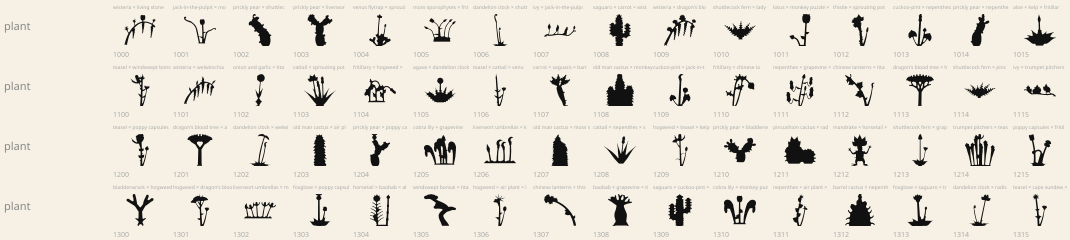
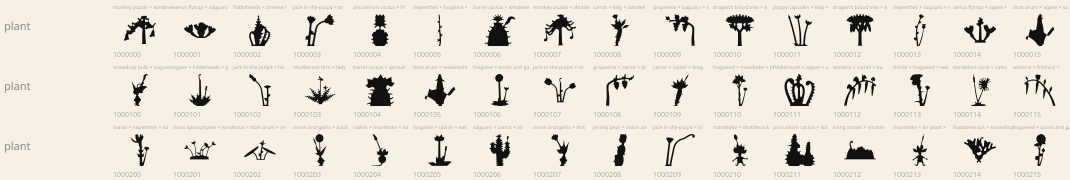
plant: chimera fix round (solid bases always grow borrowed units: cactus tips, hanging in canopies, scapes from bulbs/roots; fritillary one bell, solid wisteria racemes, stout teasel, radish sliver; barrel/dragon lent less)

diff --git a/src/gen/tags/plant.js b/src/gen/tags/plant.js
@@ -667,6 +667,43 @@ const MELD = {
 // forms with a clear top where a sibling's head may flower (cacti and succulents bloom on top)
 const TOPPED = new Set(['cactus', 'pear', 'lithops']);
 const FORMS = {};
+// Solid-bodied forms (cacti, trees, bulbs, roots...) cannot take a sibling's units into a stem
+// system, so they always grow at least one borrowed feature where it would grow: flowers or
+// capsules on cactus tops and arm tips, fruit/flowers/pitchers hanging in tree canopies, a
+// flowering scape (and leaves) from the crown of bulbs, roots, potatoes, seaweeds.
+function borrow(Cp, g, o, M) {
+  const rng = Cp.rng, K = Cp.ink, units = [M.crown, M.dorsal, M.tail].filter(Boolean);
+  const bloom = units.find(u => !leafy(u) && !NOSIDE.has(u.u)), lf = [M.dorsal, M.crown, M.tail].find(u => u && leafy(u) && BLADE.has(u.u)) ?? units.find(u => leafy(u) && u.u);
+  const head = M.head, topOwned = !!head && TOPPED.has(g.form); // the head itself goes on top via o.main
+  const fl = bloom ?? head ?? units.find(u => u.type);
+  if (!fl && !lf) return;
+  const put = (p, a, ext, spec) => drawUnit(Cp, p, a, fitTo(spec, ext), spec);
+  if (o.hang?.length) { // hanging from a canopy on short stalks
+    const spec = fl ?? lf, pool = rng.shuffle(o.hang.slice()), n = Math.min(pool.length, rng.int(2, 4));
+    for (const h of pool.slice(0, n)) {
+      const L = h.s * rng.range(0.9, 1.4), e = [h.p[0] + rng.range(-0.3, 0.3), h.p[1] + L];
+      thin(K, [h.p, e], 0.55); put(e, DOWN + rng.range(-0.25, 0.25), clamp(h.s * 3, 8, 12), spec);
+    }
+    return;
+  }
+  if (o.tips) { // cacti, prickly pear: on top of the main column / barrel and on arm or pad tips
+    const tips = o.tips.slice();
+    if (!topOwned) tips.push({ p: o.head.p, a: UP, s: (o.r ?? 5) * 1.4, top: true });
+    const pool = rng.shuffle(tips.filter(t => t.top)).concat(rng.shuffle(tips.filter(t => !t.top)));
+    const n = Math.min(pool.length, topOwned ? rng.int(1, 3) : rng.int(1, 2) + (pool.length > 2 ? 1 : 0));
+    for (const t of pool.slice(0, Math.max(n, 1))) { // on a short visible stalk, so the unit reads apart from the body
+      const spec = fl ?? lf, ext = clamp(t.s * 2.4, 7, t.top ? 12 : 10), a = t.a + rng.range(-0.2, 0.2), e = polar(t.p, a, ext * rng.range(0.3, 0.45));
+      thin(K, [polar(t.p, a, -1), e], 0.8); put(e, a, ext, spec);
+    }
+    return;
+  }
+  if (TOPPED.has(g.form) && head) return; // living stones: the head blooms from the cleft
+  // a flowering scape from the crown, with a pair of borrowed leaves if there are any
+  const top = o.head.p, sd = rng.sign(), h = clamp((o.r ?? 5) * rng.range(3.6, 4.6) * (g.form === 'taproot' || g.form === 'mandrake' ? 1.3 : 1), 16, 28);
+  const st = { h, w: 0.9, w1: 0.65, arc: sd * rng.range(0, 0.25), head: fl ?? null, hs: fl ? fitTo(fl, clamp(h * 0.45, 8, 12)) : 0 };
+  if (lf) st.leaves = { n: 2, pair: !fl, t0: 0.15, t1: 0.35, ang: 0.85, s: fitTo(lf, clamp(h * 0.45, 6, 10)), k1: 0.85, spec: lf };
+  drawStem(Cp, polar(top, UP, -1), UP + sd * rng.range(0.1, 0.35), st);
+}
 const mute = o => { for (const k of Object.keys(o)) delete o[k]; o.type = 'none'; };
 chassis.plant = (C, g) => {
   const own = g._own, G = g._g;
@@ -679,7 +716,12 @@ chassis.plant = (C, g) => {
   const R0 = g.R ?? 6, dy = ownLimbs ? 0 : C.lift * R0 * 1.1 + R0 * 0.7;
   const K = new Pen(C.ink, dy), Cp = { ...C, ink: K, plantDraw: true, ownLimbs };
   const o = FORMS[g.form](Cp, g);
-  if (M?.head && !o.main && TOPPED.has(g.form)) o.main = { p: o.head.p, a: UP, s: fitTo(M.head, clamp((o.r ?? 5) * 1.7, 6, 13)), spec: M.head };
+  if (M && !MELD[g.form]) borrow(Cp, g, o, M);
+  if (M?.head && !o.main && TOPPED.has(g.form)) { // the borrowed head blooms on top, on a short stalk clear of the body
+    const ext = clamp((o.r ?? 5) * 1.9, 7, 13), e = polar(o.head.p, UP, ext * 0.35);
+    thin(K, [polar(o.head.p, UP, -1), e], 0.9);
+    o.main = { p: e, a: UP, s: fitTo(M.head, ext), spec: M.head };
+  }
   const sh = p => [p[0], p[1] - dy];
   const r = clamp(o.r, 3.5, 9), limbs = [];
   if (!ownLimbs) { // a root-ball to walk on
@@ -945,7 +987,7 @@ FORMS.taproot = (Cp, g) => {
   if (g.kind === 'radish') {
     const c = [0, -g.tailH - R * 0.9];
     K.poly(blobPts(c, R, R * 0.95, rng, 0.04, 2));
-    K.root(() => hairTube(K, floorPts(spline([[0, c[1] + R * 0.7], [sd * R * 0.3, -g.tailH * 0.4], [sd * R * 1.2, -0.3], [sd * R * 2.6, -0.4]], 6), -0.3), R * 0.16));
+    K.root(() => hairTube(K, floorPts(spline([[0, c[1] + R * 0.7], [sd * R * 0.3, -g.tailH * 0.4], [sd * R * 1.2, -0.3], [sd * R * 2.6, -0.4]], 6), R * 0.16 - 0.15), R * 0.16));
     path = spline([[0, c[1] + R], c, [0, c[1] - R]], 4); rad = () => R * 0.9;
   } else {
     const tip = [sd * R * 1.6, -0.6], crown = [-sd * R * 0.4 * g.lean, -H];
@@ -996,7 +1038,7 @@ function column(Cp, base, a0, h, R, o = {}) {
   return { pts, rad };
 }
 FORMS.cactus = (Cp, g) => {
-  const K = Cp.ink, rng = Cp.rng, R = g.R, spine = { gap: g.gap ?? 2.6, sl: g.sl ?? 1.6, k: g.k ?? 2 };
+  const K = Cp.ink, rng = Cp.rng, R = g.R, spine = { gap: g.gap ?? 2.6, sl: g.sl ?? 1.6, k: g.k ?? 2 }, tips = [], hang = [];
   let main, headP;
   if (g.kind === 'barrel') {
     const W = g.W, H = g.H, pts = [];
@@ -1005,12 +1047,14 @@ FORMS.cactus = (Cp, g) => {
     for (let i = 0; i <= 2 * g.ribs; i++) { const t = mix(0.04, 0.96, i / (2 * g.ribs)), a = PI + t * PI, q = [Math.cos(a) * W * 1.02, Math.sin(a) * H * 1.02]; if (q[1] > -1.5) continue; const na = Math.atan2(Math.sin(a) / H, Math.cos(a) / W); hairTube(K, arcPath(q, na + rng.range(-0.2, 0.2), g.sl * 1.2, rng.sign() * 1.2, 5, 2), hair * 1.3, hair * 0.85); }
     for (let i = 0; i < g.flowers; i++) { const f = g.flowers > 1 ? i / (g.flowers - 1) - 0.5 : 0; heads.plantBloom(Cp, usock([f * W * 0.75, -H * Math.sqrt(1 - (f * 1.5) ** 2) + 0.8], UP + f * 1.2, g.fs), { petals: 5, spread: 1.6, pl: 1.3, pw: 0.55, disc: 0.4, calyx: true }); }
     main = { pts: [[0, 0], [0, -H / 2], [0, -H]], rad: () => W * 0.7 }; headP = [0, -H];
+    for (const f of [-0.42, 0.42]) tips.push({ p: [f * W, -H * Math.sqrt(1 - f * f) + 0.5], a: UP + f * 1.6, s: W * 0.5 });
   } else if (g.kind === 'pincushion') {
     main = null;
     g.balls.forEach((b, i) => {
       const c = [b.x, -b.r * 0.95], pts = blobPts(c, b.r, b.r * b.tall, rng, 0.02, 4); K.poly(pts);
       for (let j = 0; j < 16; j++) { const t = j / 16 * TAU, q = [c[0] + Math.cos(t) * b.r * 0.97, c[1] + Math.sin(t) * b.r * b.tall * 0.97]; if (q[1] < -0.8) hairTube(K, [q, polar(q, t + rng.range(-0.2, 0.2), g.sl * 0.8)], hair * 1.05, hair * 0.8); }
       if (b.crown) for (let j = 0; j < b.crown; j++) { const t = -PI / 2 + (j / (b.crown - 1) - 0.5) * 1.9, q = [c[0] + Math.cos(t) * b.r * 0.82, c[1] + Math.sin(t) * b.r * b.tall * 0.82]; heads.plantBloom(Cp, usock(q, t, b.r * 0.32), { petals: 5, spread: 1.5, pl: 1.3, pw: 0.6, disc: 0.4 }); }
+      tips.push({ p: [c[0], c[1] - b.r * b.tall * 0.9], a: UP, s: b.r * 0.9 });
       if (i === 0) { main = { pts: spline([[c[0], 0], c, [c[0], c[1] - b.r]], 4), rad: () => b.r * 0.8 }; headP = [c[0], c[1] - b.r * b.tall]; }
     });
   } else { // columns
@@ -1023,24 +1067,27 @@ FORMS.cactus = (Cp, g) => {
         const q = pathAt(col.pts, arm.t), sd = arm.sd, rA = cd.R * arm.k, b = polar(q.p, q.ang + sd * PI / 2, cd.R * 0.5);
         const elbow = add(b, [sd * arm.out, -rA * 0.3]), apts = spline([b, add(b, [sd * arm.out * 0.55, rA * 0.1]), elbow, add(elbow, [sd * rA * 0.15, -arm.up * 0.5]), add(elbow, [sd * rA * 0.05, -arm.up])], 6), arad = P([[0, rA * 0.8], [0.3, rA], [1, rA * 0.85]]);
         K.poly(tube(apts, arad)); areoles(Cp, apts.slice(Math.floor(apts.length * 0.35)), arad, { ...spine, len: arm.up });
+        tips.push({ p: last(apts), a: UP, s: rA * 1.3 });
         if (arm.flower) heads.plantBloom(Cp, usock(last(apts), UP, rA * 0.55), { petals: 5, spread: 1.7, pl: 1.2, pw: 0.6, disc: 0.4, calyx: true });
       }
       if (cd.flowers) for (let j = 0; j < cd.flowers; j++) { const e = last(col.pts), f = cd.flowers > 1 ? j / (cd.flowers - 1) - 0.5 : 0; heads.plantBloom(Cp, usock(polar(e, UP + f * 2, cd.R * 0.7), UP + f * 1.4, cd.R * 0.5), { petals: 5, spread: 1.7, pl: 1.2, pw: 0.6, disc: 0.4, calyx: true }); }
+      if (i) tips.push({ p: last(col.pts), a: UP + cd.lean, s: cd.R * 1.3 });
       if (i === 0) { main = col; headP = last(col.pts); }
     });
   }
   const xs = g.kind === 'barrel' ? [-g.W, g.W] : g.kind === 'pincushion' ? g.balls.map(b => b.x) : g.cols.map(c => c.x);
-  return { r: R, path: main.pts, rad: main.rad, head: { p: headP, dir: UP, s: R }, foot: [Math.min(...xs) - R * 0.5, Math.max(...xs) + R * 0.5] };
+  return { r: R, path: main.pts, rad: main.rad, tips, hang, head: { p: headP, dir: UP, s: R }, foot: [Math.min(...xs) - R * 0.5, Math.max(...xs) + R * 0.5] };
 };
 
 // Prickly pear: paddles on paddles, with fruit or flowers on the rims.
 FORMS.pear = (Cp, g) => {
-  const K = Cp.ink, rng = Cp.rng, pads = [];
+  const K = Cp.ink, rng = Cp.rng, pads = [], tips = [];
   const pad = (b, a, L, depth) => {
     const W = L * g.wk, c = polar(b, a, L * 0.48);
     K.poly(superE(c, L * 0.52, W * 0.5, a, 2.3));
     pads.push({ c, a, L });
     for (let i = 0; i < 5; i++) { const t = rng.range(0, TAU), q = polar(polar(c, a, Math.cos(t) * L * 0.5), a + PI / 2, Math.sin(t) * W * 0.48); for (let j = 0; j < 2; j++) hairTube(K, [q, polar(q, a + t + (j - 0.5) * 0.7, rng.range(1.2, 1.9))], hair * 1.05, hair * 0.8); }
+    if (depth <= 0) tips.push({ p: polar(c, a, L * 0.5), a, s: L * 0.4 });
     if (depth <= 0) { for (let j = 0; j < g.fruit; j++) { const f = g.fruit > 1 ? j / (g.fruit - 1) - 0.5 : 0, q = polar(polar(c, a, L * 0.48), a + PI / 2, f * W * 0.7), fa = a + f * 1.4; if (g.bloom) heads.plantBloom(Cp, usock(q, fa, L * 0.18), { petals: 6, spread: 1.6, pl: 1.3, pw: 0.6, disc: 0.4, calyx: true }); else K.poly(superE(polar(q, fa, L * 0.15), L * 0.17, L * 0.11, fa, 2.4)); } return; }
     const nk = rng.int(1, depth > 1 ? 3 : 2);
     for (let j = 0; j < nk; j++) { const f = nk > 1 ? j / (nk - 1) - 0.5 : rng.range(-0.4, 0.4), q = polar(polar(c, a, L * 0.4), a + PI / 2, f * W * 0.75); pad(q, a + f * 1.6 + rng.range(-0.15, 0.15), L * rng.range(0.72, 0.88), depth - 1); }
@@ -1048,7 +1095,7 @@ FORMS.pear = (Cp, g) => {
   pad([0, 0.5], UP + rng.range(-0.15, 0.15), g.L, g.depth);
   const p0 = pads[0], path = [polar(p0.c, p0.a, -p0.L * 0.5), p0.c, polar(p0.c, p0.a, p0.L * 0.5)];
   const hi = pads.reduce((m, q) => (q.c[1] < m.c[1] ? q : m), pads[0]);
-  return { r: g.L * 0.3, path: spline(path, 4), rad: () => p0.L * g.wk * 0.4, head: { p: polar(hi.c, hi.a, hi.L * 0.5), dir: UP, s: g.L * 0.3 }, foot: [-g.L * 0.4, g.L * 0.4] };
+  return { r: g.L * 0.3, tips, path: spline(path, 4), rad: () => p0.L * g.wk * 0.4, head: { p: polar(hi.c, hi.a, hi.L * 0.5), dir: UP, s: g.L * 0.3 }, foot: [-g.L * 0.4, g.L * 0.4] };
 };
 
 // Lithops: pairs of fat cleft lobes among pebbles, perhaps a daisy from a cleft.
@@ -1071,7 +1118,7 @@ FORMS.lithops = (Cp, g) => {
 
 // Miniature trees: baobab, dragon's-blood umbrella, windswept bonsai, monkey-puzzle.
 FORMS.tree = (Cp, g) => {
-  const K = Cp.ink, rng = Cp.rng, H = g.H, R = g.R;
+  const K = Cp.ink, rng = Cp.rng, H = g.H, R = g.R, hang = [];
   let trunk, trad;
   const roots = (n, spread) => K.root(() => { for (let i = 0; i < n; i++) { const sd = i % 2 ? 1 : -1, b = [sd * R * rng.range(0.3, 0.7), -R * 0.6]; K.poly(tube(floorPts(arcPath(b, sd > 0 ? 0.5 : PI - 0.5, R * spread * rng.range(0.8, 1.2), sd * 0.35, 6), -0.2), P([[0, R * 0.35], [1, hair]]))); } });
   const branch = (b, a, len, w, depth, o) => { // recursive dichotomous branching; returns tips
@@ -1088,7 +1135,7 @@ FORMS.tree = (Cp, g) => {
     trad = P([[0, R * 1.05], [0.12, R * 0.95], [0.45, R * g.belly], [0.85, R * 0.7], [1, R * 0.55]]);
     K.poly(tube(trunk, trad)); roots(4, 1.1);
     const e = last(trunk);
-    for (let i = 0; i < g.nb; i++) { const f = i / (g.nb - 1) - 0.5, b = polar(e, UP, -R * 0.3); for (const [tp, ta] of branch(polar(b, 0, f * R * 0.8), UP + f * 2.4 + rng.range(-0.1, 0.1), H * rng.range(0.22, 0.3), R * 0.32, 1, { fork: 0.5, lk: 0.6, wk: 0.6, up: 0.3, bend: 0.3 })) if (g.leafy) U.leaves(Cp, tp, ta, R * 0.4, { n: 3, spread: 2.0, len: 1, wid: 0.45 }); }
+    for (let i = 0; i < g.nb; i++) { const f = i / (g.nb - 1) - 0.5, b = polar(e, UP, -R * 0.3); for (const [tp, ta] of branch(polar(b, 0, f * R * 0.8), UP + f * 2.4 + rng.range(-0.1, 0.1), H * rng.range(0.22, 0.3), R * 0.32, 1, { fork: 0.5, lk: 0.6, wk: 0.6, up: 0.3, bend: 0.3 })) if (hang.push({ p: tp, s: R * 0.9 }), g.leafy) U.leaves(Cp, tp, ta, R * 0.4, { n: 3, spread: 2.0, len: 1, wid: 0.45 }); }
   } else if (g.kind === 'dragon') {
     trunk = stemPts([0, 0.3], UP + g.lean, H, 0, 0, 8); trad = P([[0, R * 1.2], [0.1, R], [1, R * 0.9]]);
     K.poly(tube(trunk, trad)); roots(2, 0.8);
@@ -1100,6 +1147,7 @@ FORMS.tree = (Cp, g) => {
     for (let i = 0; i <= 30; i++) { const t = i / 30 * PI; dome.push([cx - Math.cos(t) * cw, y0 + R * 0.8 - Math.sin(t) * chh]); }
     for (let i = 30; i >= 0; i--) { const t = i / 30; dome.push([x0 + t * 2 * cw, y0 + R * 0.8 + (i % 2 ? R * 0.5 : R * 1.1) * Math.sin(PI * t) ** 0.3]); }
     K.poly(dome);
+    for (const f of [0.12, 0.26, 0.74, 0.88]) hang.push({ p: [x0 + f * 2 * cw, y0 + R * 2.2], s: R * 1.6 });
     for (let i = 0; i < 13; i++) { const t = (i + 0.5) / 13 * PI, q = [cx - Math.cos(t) * cw * 0.98, y0 + R * 0.8 - Math.sin(t) * chh * 0.98], na = -PI / 2 - Math.cos(t) * 1.2; U.needles(Cp, q, na, R * rng.range(0.9, 1.2), { n: 3, spread: 0.9 }); }
   } else if (g.kind === 'bonsai') {
     const sd = g.sd;
@@ -1109,7 +1157,7 @@ FORMS.tree = (Cp, g) => {
     trad = P([[0, R * 1.15], [0.15, R * 0.85], [0.6, R * 0.55], [1, R * 0.3]]);
     K.poly(tube(trunk, trad));
     for (const s2 of [-1, 1]) K.poly(tube(floorPts(arcPath([-sd * R * 0.4, y0 - R * 0.4], s2 > 0 ? 0.6 : PI - 0.6, R * 1.6, s2 * 0.5, 6), -y0 - 0.3), P([[0, R * 0.45], [1, hair]])));
-    const pad = (c, w) => { for (let j = 0; j < 5; j++) { const f = j / 4 - 0.5; K.oval([c[0] + f * w * 1.6, c[1] - Math.cos(f * PI) * w * 0.25], w * 0.42 * rng.range(0.85, 1.15), w * 0.3, 0); } K.poly(superE([c[0], c[1] + w * 0.08], w * 1.05, w * 0.2, 0, 2.5)); };
+    const pad = (c, w) => { for (let j = 0; j < 5; j++) { const f = j / 4 - 0.5; K.oval([c[0] + f * w * 1.6, c[1] - Math.cos(f * PI) * w * 0.25], w * 0.42 * rng.range(0.85, 1.15), w * 0.3, 0); } K.poly(superE([c[0], c[1] + w * 0.08], w * 1.05, w * 0.2, 0, 2.5)); for (const f of [-0.5, 0.4]) hang.push({ p: [c[0] + f * w, c[1] + w * 0.2], s: w * 0.6 }); };
     for (const br of g.branches) { const q = pathAt(trunk, br.t), bs = br.sd * sd, e = polar(polar(q.p, bs > 0 ? 0 : PI, br.len), UP, br.len * 0.2); K.poly(tube(spline([q.p, lerp(q.p, e, 0.5), e], 5), P([[0, trad(br.t) * 0.6], [1, trad(br.t) * 0.35]]))); pad(polar(e, UP, R * 0.35), br.pad); }
     pad(polar(last(trunk), UP, R * 0.4), g.topPad);
   } else { // monkey-puzzle: tall bare thick trunk, dome of many drooping spiky rope branches
@@ -1124,11 +1172,12 @@ FORMS.tree = (Cp, g) => {
         const L = H * 0.52 * Math.sqrt(Math.max(1 - u * u, 0.04)) * rng.range(0.75, 1.2) * (1 + s2 * g.skew), dr = mix(0.6, 0.32, u) * rng.range(0.75, 1.25), up = rng.range(0.05, 0.3);
         const pts = spline([q.p, [q.p[0] + s2 * L * 0.35, q.p[1] - L * 0.15 * (1 - u)], [q.p[0] + s2 * L * 0.75, q.p[1] + L * dr * 0.5], [q.p[0] + s2 * L, q.p[1] + L * (dr * 0.6 - up)]], 4);
         rope(floorPts(pts, -1), R * mix(0.42, 0.32, u));
+        if (last(pts)[1] < -H * 0.35) hang.push({ p: last(pts), s: R * 1.5 });
       }
     }
     for (const a of [-0.9, 0, 0.9]) rope(arcPath(last(trunk), UP + a + rng.range(-0.15, 0.15), H * (a ? 0.1 : 0.06), a * 0.8, 4), R * 0.4);
   }
-  return { r: R * 1.5, path: trunk, rad: trad, head: { p: last(trunk), dir: UP, s: R * 1.4 }, foot: [-R * 2, R * 2] };
+  return { r: R * 1.5, hang, path: trunk, rad: trad, head: { p: last(trunk), dir: UP, s: R * 1.4 }, foot: [-R * 2, R * 2] };
 };
 
 // Seaweeds standing on a holdfast: kelp with bladders, oarweed fingers, bladderwrack.
@@ -1222,8 +1271,9 @@ U.grapes = (C, p, a, s, o) => {
 // wisteria raceme: a drooping tassel of pea flowers, fat at the top
 U.raceme = (C, p, a, s, o) => {
   const sg = Math.cos(a) >= 0 ? 1 : -1, pts = arcPath(p, a, s * (o.len ?? 3), sg * (o.curve ?? 0.25), 12), n = o.n ?? 11;
-  thin(C.ink, pts, Math.max(s * 0.08, MINW));
-  for (let i = 0; i < n; i++) { const t = mix(0.08, 1, i / (n - 1)), q = pathAt(pts, t), sd = i % 2 ? 1 : -1; C.ink.dot(polar(q.p, q.ang + sd * PI / 2, s * mix(0.28, 0.06, t)), s * mix(0.34, 0.15, t)); }
+  thin(C.ink, pts.slice(0, 3), Math.max(s * 0.08, MINW));
+  C.ink.poly(tube(pts.slice(1), P([[0, s * 0.3], [0.2, s * 0.42], [0.65, s * 0.27], [1, s * 0.1]]))); // solid tassel body
+  for (let i = 0; i < n; i++) { const t = mix(0.12, 0.95, i / (n - 1)), q = pathAt(pts, t), sd = i % 2 ? 1 : -1; C.ink.dot(polar(q.p, q.ang + sd * PI / 2, s * mix(0.36, 0.1, t)), s * mix(0.24, 0.1, t)); }
 };
 // bottle gourd on a short stalk: small neck bulb, big lower bulb
 U.gourd = (C, p, a, s, o) => {
@@ -1393,8 +1443,8 @@ const species = [
   } },
   // ---------------- seed-heads and flowers ----------------
   { name: 'teasel', w: 1.4, genes: r => {
-    const nb = r.chance(0.4) ? 1 : 0, stems = [{ x: 0, lean: r.range(-0.08, 0.08), arc: r.range(-0.15, 0.15), h: r.range(22, 30), w: 1.5, w1: 1.15, prickles: 3,
-      leaves: { n: 2, pair: true, t0: 0.3, t1: 0.55, ang: 0.75, s: r.range(9, 11), k1: 0.8, spec: { u: 'leaf', len: 1, wid: 0.22, bend: 0.1 } },
+    const nb = r.chance(0.4) ? 1 : 0, stems = [{ x: 0, lean: r.range(-0.08, 0.08), arc: r.range(-0.15, 0.15), h: r.range(22, 30), w: 2.1, w1: 1.6, prickles: 3,
+      leaves: { n: r.int(1, 2), pair: true, t0: 0.3, t1: 0.5, ang: 0.75, s: r.range(11.5, 14), k1: 0.85, spec: { u: 'leaf', len: 1, wid: 0.27, bend: 0.1 } },
       branch: nb ? { n: nb, t0: 0.62, t1: 0.75, ang: 0.55, h: r.range(10, 13), w: 1.0, arc: -0.25, head: { type: 'plantBur', kind: 'teasel', wid: 0.95 }, hs: 4.2 } : null,
       head: { type: 'plantBur', kind: 'teasel', wid: r.range(0.95, 1.1) }, hs: r.range(6.2, 7) }];
     return build(r, { form: 'stems', R: 5, r: 4, stems }, { head: { type: 'plantBur', kind: 'teasel' }, headSize: 0.8, orn: { type: 'plantBur', kind: 'teasel' }, tipS: 0.5, crownS: 0.45, row: { u: 'thorn', len: 1 }, rowS: 0.5, rowN: 6 });
@@ -1428,8 +1478,8 @@ const species = [
     return build(r, { form: 'stems', R: 6, r: 4, stems, basal }, { head: { type: 'plantSpire', kind: lupin ? 'lupin' : 'foxglove', len: 5 }, headSize: 0.7, orn: { type: 'plantBell', kind: 'foxglove' }, tipS: 0.6, crownS: 0.55, row: { type: 'plantBell', kind: 'foxglove' }, rowS: 0.45 });
   } },
   { name: 'fritillary', w: 1.3, genes: r => {
-    const n = r.int(1, 3), stems = [];
-    for (let i = 0; i < n; i++) { const sd = r.sign(); stems.push({ x: (i - (n - 1) / 2) * r.range(5, 8), lean: r.range(-0.15, 0.15), arc: sd * r.range(0, 0.3), nod: sd * r.range(2.2, 2.8), h: r.range(26, 36) * (i ? 0.85 : 1), w: 0.65, w1: 0.55, leaves: { n: 3, t0: 0.2, t1: 0.6, ang: 0.5, s: r.range(7, 9), k1: 0.7, spec: { u: 'strap', len: 1, wid: 0.1, grav: 0.6 } }, head: { type: 'plantBell', kind: 'fritillary', wid: r.range(0.9, 1.05) }, hs: r.range(3, 3.5) }); }
+    const n = r.wpick([[3, 1], [2, 2]]), stems = []; // one dominant bell, at most one smaller companion
+    for (let i = 0; i < n; i++) { const sd = r.sign(); stems.push({ x: (i - (n - 1) / 2) * r.range(5, 7), lean: r.range(-0.15, 0.15), arc: sd * r.range(0, 0.3), nod: sd * r.range(2.2, 2.8), h: r.range(24, 32) * (i ? 0.75 : 1), w: 0.8, w1: 0.65, leaves: { n: 3, t0: 0.2, t1: 0.6, ang: 0.5, s: r.range(7, 9), k1: 0.7, spec: { u: 'strap', len: 1, wid: 0.1, grav: 0.6 } }, head: { type: 'plantBell', kind: 'fritillary', wid: r.range(0.95, 1.1) }, hs: r.range(3.8, 4.4) * (i ? 0.72 : 1) }); }
     return build(r, { form: 'stems', R: 5, r: 4, stems }, { head: { type: 'plantBell', kind: 'fritillary' }, headSize: 0.9, orn: { type: 'plantBell', kind: 'fritillary' }, tipS: 0.6, crownS: 0.55, row: { type: 'plantBell', kind: 'fritillary' }, rowS: 0.45 });
   } },
   { name: 'hogweed', w: 1.5, genes: r => {
@@ -1508,7 +1558,7 @@ const species = [
     if (r.chance(0.3)) form.cols.push({ x: r.sign() * r.range(9, 12), lean: r.range(-0.1, 0.1), h: r.range(8, 13), R: R * 0.85 });
     return build(r, form, { head: { type: 'plantBloom', petals: 5, spread: 1.7, pl: 1.2, pw: 0.6, disc: 0.4, calyx: true }, headSize: 1.1, orn: { type: 'plantBloom', petals: 5, spread: 1.7, pl: 1.2, pw: 0.6, disc: 0.4 }, tipS: 0.8, crownS: 0.8, row: { u: 'thorn', len: 1, hook: 0 }, rowS: 0.45, rowN: 7 });
   } },
-  { name: 'barrel cactus', w: 1.6, genes: r => {
+  { name: 'barrel cactus', w: 1.2, genes: r => {
     const W = r.range(7, 9);
     const form = { form: 'cactus', kind: 'barrel', R: W * 0.6, W, H: W * r.range(1.7, 2.4), ribs: r.int(4, 6), sl: r.range(2.2, 2.8), flowers: r.wpick([[1, 0], [2, r.int(3, 5)]]), fs: r.range(2.2, 2.7) };
     return build(r, form, { head: { type: 'plantBloom', petals: 6, spread: 1.6, pl: 1.3, pw: 0.6, disc: 0.4, calyx: true }, headSize: 1.1, orn: { type: 'plantBloom', petals: 5, spread: 1.6, pl: 1.3, pw: 0.6, disc: 0.4 }, tipS: 0.8, crownS: 0.8, row: { u: 'thorn', len: 1, hook: 0.3 }, rowS: 0.5, rowN: 7 });
@@ -1553,7 +1603,7 @@ const species = [
     const form = { form: 'tree', kind: 'baobab', H: r.range(24, 32), R: r.range(5.5, 7.5), belly: r.range(1.0, 1.3), lean: r.range(-0.08, 0.08), nb: r.int(4, 6), leafy: r.chance(0.3) };
     return build(r, form, { head: { type: 'plantLeaf', unit: { u: 'leaves', n: 5, spread: 2.4, len: 1, wid: 0.45 }, size: 1.4 }, orn: { u: 'leaves', n: 4, spread: 2.2, len: 1, wid: 0.45 }, tipS: 1, crownS: 1, row: { u: 'leaves', n: 3, spread: 2, len: 1, wid: 0.45 }, rowS: 0.7 });
   } },
-  { name: 'dragon\'s blood tree', w: 1.8, genes: r => {
+  { name: 'dragon\'s blood tree', w: 1.3, genes: r => {
     const form = { form: 'tree', kind: 'dragon', H: r.range(16, 22), R: r.range(2.0, 2.5), lean: r.range(-0.06, 0.06), nb: r.pick([2, 3]), depth: r.int(1, 2), dome: r.range(0.35, 0.55) };
     return build(r, form, { head: { type: 'plantTuft', kind: 'tube', n: 7, len: 1.8, wid: 0.3, spread: 2.6 }, headSize: 0.9, orn: { u: 'needles', n: 5, spread: 1.4 }, tipS: 1.4, crownS: 1.3, row: { u: 'needles', n: 4, spread: 1.2 }, rowS: 0.9 });
   } },

diff --git a/docs/tags/plant.md b/docs/tags/plant.md
@@ -123,3 +123,23 @@ Use the species `hybrid: { never, keep, noLend }` hints to fix these in phase 2.
 - Still weakish: fritillary-chassis chimeras (tangle of nodding stems), horsetail x fern
   (whorls plus fiddles read as a ladder), teasel/thistle chassis with leaf clusters (lumpy).
   Sheet: `out/roads/07-plant-chimeras.png`.
+
+### Chimera fix round (2026-11-14, critic findings at --hybrid 1 --cell 60)
+
+- Solid-bodied bases no longer read as catalogue plants: `borrow()` in `plant.js` makes every
+  non-meldable base (cactus, prickly pear, trees, bulb, taproot, mandrake, potato, weeds,
+  welwitschia, air plant) grow at least one sibling unit. Cacti/pear: units on short visible
+  stalks on the top and on arm/pad/ball tips (`o.tips`). Trees: 2-4 units hanging on stalks from
+  canopy spots (`o.hang`: baobab branch tips, dragon dome underside, bonsai pads, monkey-puzzle
+  rope ends). Others: a flowering scape (with borrowed blade leaves) from the crown, taller on
+  carrot/radish/mandrake so it clears the leaf tuft. A borrowed head on cactus/pear/lithops tops
+  now sits on a short stalk instead of fusing into the body.
+- Barrel cactus w 1.6 -> 1.2, dragon's blood tree w 1.8 -> 1.3 (lent as chassis less often).
+- Fritillary: 1 stem (or 2, second smaller), one dominant bell hs 3.8-4.4, thicker stem.
+- Wisteria raceme: a solid tapered tassel body with bead bumps (was beads on a hairline).
+- Teasel: stem w 2.1, 1-2 leaf pairs, larger and wider.
+- Radish tail floored so the tube stays within a ~0.2 sliver.
+- Still weak: saguaro chimeras (units on arm tips can look like fused knobs), dragon's blood
+  hanging units partly lost in the dome fringe, living stones (only the head on top), units
+  with thin petals (lady's slipper) read small for their measured extent (`extOf` is a bbox).
+
